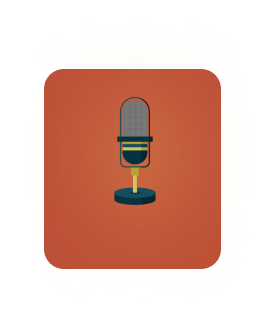
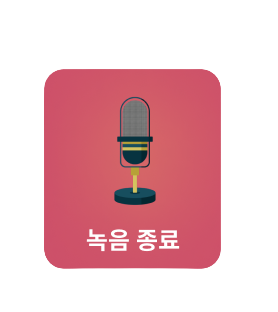
feat: Update speaking game

diff --git a/frontend/src/views/accounts/Login.vue b/frontend/src/views/accounts/Login.vue
@@ -57,7 +57,7 @@ export default {
     this.checkLogin();
   },
   mounted: function() {
-    this.initializeNaverLogin();
+    // this.initializeNaverLogin();
   },
   computed: {
     ...mapGetters(['getIsLogin']),
@@ -124,84 +124,84 @@ export default {
         })
         .catch(() => {});
     },
-    kakaoLogin: function() {
-      Kakao.Auth.login({
-        success: function(authObj) {
-          Kakao.API.request({
-            url: '/v2/user/me',
-            success: function(res) {
-              console.log(res);
-              window.location.replace('http://localhost:8080/room');
-            },
-            fail: function(err) {
-              console.log(err);
-            },
-          });
-        },
-        fail: function(err) {
-          alert(JSON.stringify(err));
-        },
-      });
-    },
-    kakaoLogout: function() {
-      console.log(Kakao.Auth.getAccessToken());
-      if (Kakao.Auth.getAccessToken()) {
-        Kakao.Auth.logout(function() {
-          // success: function (response) {
-          //   console.log(response)
-          // },
-          // fail: function (error) {
-          //   console.log(error)
-          // }
-          alert(Kakao.Auth.getAccessToken());
-          window.location.replace('http://localhost:8080/');
-        });
-      }
-    },
+    // kakaoLogin: function() {
+    //   Kakao.Auth.login({
+    //     success: function(authObj) {
+    //       Kakao.API.request({
+    //         url: '/v2/user/me',
+    //         success: function(res) {
+    //           console.log(res);
+    //           window.location.replace('http://localhost:8080/room');
+    //         },
+    //         fail: function(err) {
+    //           console.log(err);
+    //         },
+    //       });
+    //     },
+    //     fail: function(err) {
+    //       alert(JSON.stringify(err));
+    //     },
+    //   });
+    // },
+    // kakaoLogout: function() {
+    //   console.log(Kakao.Auth.getAccessToken());
+    //   if (Kakao.Auth.getAccessToken()) {
+    //     Kakao.Auth.logout(function() {
+    //       // success: function (response) {
+    //       //   console.log(response)
+    //       // },
+    //       // fail: function (error) {
+    //       //   console.log(error)
+    //       // }
+    //       alert(Kakao.Auth.getAccessToken());
+    //       window.location.replace('http://localhost:8080/');
+    //     });
+    //   }
+    // },
     loginCancel: function() {
       this.$router.push('/');
     },
-    initializeNaverLogin: () => {
-      const { naver } = window;
-      const naverLogin = new naver.LoginWithNaverId({
-        clientId: 'J8ASU80_cvgYfiW0WCqD',
-        callbackUrl: 'http://localhost:8080/login',
-        isPopup: false,
-        loginButton: { color: 'white', type: 1, height: 47 },
-        callbackHandle: true,
-      });
-      naverLogin.init();
+    // initializeNaverLogin: () => {
+    //   const { naver } = window;
+    //   const naverLogin = new naver.LoginWithNaverId({
+    //     clientId: 'J8ASU80_cvgYfiW0WCqD',
+    //     callbackUrl: 'http://localhost:8080/login',
+    //     isPopup: false,
+    //     loginButton: { color: 'white', type: 1, height: 47 },
+    //     callbackHandle: true,
+    //   });
+    //   naverLogin.init();
 
-      window.addEventListener('load', function() {
-        naverLogin.getLoginStatus(function(status) {
-          if (status) {
-            const email = naverLogin.user.getEmail();
-            if (email == undefined || email == undefined) {
-              swal({
-                // className:'alert',
-                title: '이메일과 이름을 체크해주세요.',
-                icon: "/img/ssazip-logo.png",
-                buttons: {
-                text: '확인',
-              },
-              })
-              naverLogin.reprompt();
-              return;
-            }
-            // window.location.replace('http://localhost:8080/login');
-          } else {
-            swal({
-                // className:'alert',
-                title: '로그인 실패',
-                icon: "/img/ssazip-logo.png",
-                buttons: {
-                text: '확인',
-              },
-            })
-          }
-        });
-      });
-    },
+    //   window.addEventListener('load', function() {
+    //     naverLogin.getLoginStatus(function(status) {
+    //       if (status) {
+    //         const email = naverLogin.user.getEmail();
+    //         if (email == undefined || email == undefined) {
+    //           swal({
+    //             // className:'alert',
+    //             title: '이메일과 이름을 체크해주세요.',
+    //             icon: "/img/ssazip-logo.png",
+    //             buttons: {
+    //             text: '확인',
+    //           },
+    //           })
+    //           naverLogin.reprompt();
+    //           return;
+    //         }
+    //         // window.location.replace('http://localhost:8080/login');
+    //       } else {
+    //         swal({
+    //             // className:'alert',
+    //             title: '로그인 실패',
+    //             icon: "/img/ssazip-logo.png",
+    //             buttons: {
+    //             text: '확인',
+    //           },
+    //         })
+    //       }
+    //     });
+    //   });
+    // },
   },
 };
 </script>

diff --git a/frontend/src/views/speaking/SpeakingGame.vue b/frontend/src/views/speaking/SpeakingGame.vue
@@ -26,6 +26,8 @@
         v-bind:curTeam="room.curTeam"
         v-bind:curTeamCnt="room.curTeamCnt"
         v-if="room != null"
+        :timer="timer"
+        :gameType="'speaking'"
       />
       <div class="game-board">
         <p class="sentence">"{{ quiz }}"</p>
@@ -49,8 +51,8 @@
             </div>
           </div>
         </div>
-        <img v-if="showMic" :src="micImg[1]" alt="mic img" class="game-mic-default" id="record" />
-        <img v-else :src="micImg[0]" alt="mic img" class="game-mic-default" id="record" />
+        <img v-if="showMic" :src="micImg[2]" alt="mic img" class="game-mic-default" id="record"/>
+        <img v-else :src="micImg[1]" alt="mic img" class="game-mic-default" id="record" />
       </div>
 
       <!-- 아래는 나중에 사용할 아이들 -->
@@ -113,12 +115,13 @@ export default {
         '/img/speak/speak-fail.png',
         '/img/speak/speak-success.png',
       ],
-      micImg: ['/img/mic/mic-di.png', '/img/mic/mic-en.png'],
+      micImg: ['/img/mic/mic-default.png', '/img/mic/mic-enabled.png', '/img/mic/mic-on.png', '/img/mic/mic-off.png'],
       talkFinish: false,
       quiz: null,
       lastTeamLen: 0,
       talker: 0,
       showMic: false,
+      timer: true,
     };
   },
   created() {
@@ -325,12 +328,15 @@ export default {
       // record.src = require(this.micImg[1]);
       this.showMic = true;
       if (background === 0) {
+        record.src = this.micImg[1];
         return;
       } else if (background === 1) {
-        record.className = 'game-mic-default game-mic-off';
+        record.src = this.micImg[3];
+        // record.className = 'game-mic-default game-mic-off';
         return;
       } else if (background === 2) {
-        record.className = 'game-mic-default game-mic-on';
+        record.src = this.micImg[2];
+        // record.className = 'game-mic-default game-mic-on';
         return;
       }
       // before
@@ -493,6 +499,7 @@ export default {
         // && this.answerIdx + 1 === this.room.teams[this.room.teamOrder[0]].members.length
       ) {
         this.answermodal = true;
+        this.timer = true;
         if (
           this.getUser.name ===
           this.room.teams[this.room.teamOrder[0]].members[this.answerIdx].participantName
@@ -533,6 +540,7 @@ export default {
       const flag = JSON.parse(payload.body);
       this.ordermodal = flag;
       this.answermodal = flag;
+      this.timer = false;
     },
     onError() {},
     sendGameStartTrigger: function() {

diff --git a/frontend/src/components/common/SpeakingTimer.vue b/frontend/src/components/common/SpeakingTimer.vue
@@ -7,31 +7,34 @@
 <script>
 export default {
   name: 'Timer',
+  props: ['timer'],
   data: function() {
     return {
       minutes: 2,
       seconds: 0,
+      interval: 0,
     };
   },
   methods: {
     setTimer: function() {
-      let interval = 0;
-
-      const timeMinus = () => {
-        if (this.seconds !== 0) {
-          this.seconds--;
-        } else if ((this.seconds === 0) & (this.minutes !== 0)) {
-          this.minutes--;
-          this.seconds = 59;
-        } else if ((this.seconds === 0) & (this.minutes === 0)) {
-          clearInterval(interval);
-        }
-      };
-      interval = setInterval(timeMinus, 1000);
+      if (!this.timer) {
+        this.minutes = 2;
+        this.seconds = 0;
+        this.interval = setInterval(this.timeMinus, 1000);
+      } else {
+        clearInterval(this.interval);
+      }
     },
-  },
-  mounted: function() {
-    this.setTimer();
+    timeMinus: function() {
+      if (this.seconds !== 0) {
+        this.seconds--;
+      } else if ((this.seconds === 0) & (this.minutes !== 0)) {
+        this.minutes--;
+        this.seconds = 59;
+      } else if ((this.seconds === 0) & (this.minutes === 0)) {
+        clearInterval(this.interval);
+      }
+    },
   },
   computed: {
     getSeconds() {
@@ -41,6 +44,11 @@ export default {
       return this.minutes < 10 ? '0' + this.minutes : this.minutes;
     },
   },
+  watch: {
+    'timer'() {
+      this.setTimer();
+    }
+  }
 };
 </script>
 

diff --git a/frontend/src/css/speaking-game.css b/frontend/src/css/speaking-game.css
@@ -104,10 +104,10 @@
 
 .game-board > .game-mic-default {
   border-radius: 10px;
-  width: 8%;
-  height: 15%;
+  width: 10%;
+  height: 20%;
   position: absolute;
-  bottom: 3%;
+  bottom: 0%;
   left: 50%;
   transform: translate(-50%, 0);
 }
@@ -115,27 +115,27 @@
 .game-board > .game-mic-on {
   background: rgb(170, 223, 90);
   box-shadow: 1px 1px 1px black, 1px 1px 1px white inset;
-  width: 8%;
-  height: 15%;
+  width: 10%;
+  height: 20%;
 }
 
 .game-board > .game-mic-on:active {
   background: rgb(157, 206, 84);
   box-shadow: 1px 1px 1px black inset, 1px 1px 1px white;
-  width: 8%;
-  height: 15%;
+  width: 10%;
+  height: 20%;
 }
 
 .game-board > .game-mic-off {
   background: rgb(184, 79, 65);
   box-shadow: 1px 1px 1px black, 1px 1px 1px white inset;
-  width: 8%;
-  height: 15%;
+  width: 10%;
+  height: 20%;
 }
 
 .game-board > .game-mic-off:active {
   background: rgb(167, 71, 59);
   box-shadow: 1px 1px 1px black inset, 1px 1px 1px white;
-  width: 8%;
-  height: 15%;
+  width: 10%;
+  height: 20%;
 }

diff --git a/frontend/src/components/GameStatus.vue b/frontend/src/components/GameStatus.vue
@@ -1,6 +1,7 @@
 <template>
   <div class="ssafymind-left">
-    <div id="questionTeam-title">문제 내는 팀</div>
+    <div v-if="gameType === 'speaking'" id="questionTeam-title">진행 중인 팀</div>
+    <div v-else id="questionTeam-title">문제 내는 팀</div>
     <img
       class="team-img"
       id=""
@@ -20,7 +21,7 @@
         <span class="team-members" v-else>{{ member.participantName }}</span>
       </span>
     </div>
-    <SpeakingTimer v-if="game === 'speak'" />
+    <SpeakingTimer v-if="game === 'speak'" :timer="timer" />
     <div v-else>
       <div id="progress" v-if="getProgressBar == false">
         <div id="progress-bar"></div>
@@ -90,7 +91,7 @@ export default {
   components: {
     SpeakingTimer,
   },
-  props: ['game', 'teamOrder', 'teams', 'curPlayer', 'scores', 'curTeam', 'curTeamCnt'],
+  props: ['game', 'teamOrder', 'teams', 'curPlayer', 'scores', 'curTeam', 'curTeamCnt', 'timer', 'gameType'],
   watch: {
     // scores가 갱신되면 점수 정보도 갱신
     scores() {

diff --git a/backend/src/main/java/com/playssafy/playssafy/service/SpeakingService.java b/backend/src/main/java/com/playssafy/playssafy/service/SpeakingService.java
@@ -69,7 +69,7 @@ public class SpeakingService {
             speaking.getQuizzes().add(new Quiz(1, "내가 그린 기린 그림", "내가그린기린그림"));
             speaking.getQuizzes().add(new Quiz(1, "한양 양장점 옆 한영 양장점", "한양양장점옆한영양장점"));
             speaking.getQuizzes().add(new Quiz(1, "내가 그린 기린 그림", "내가그린기린그림"));
-            speaking.getQuizzes().add(new Quiz(1, "철수책상은 철책상", "철수책상은철책상"));
+            speaking.getQuizzes().add(new Quiz(1, "철수 책상은 철 책상", "철수책상은철책상"));
         }
         speakGameRepository.save(speaking);
     }
